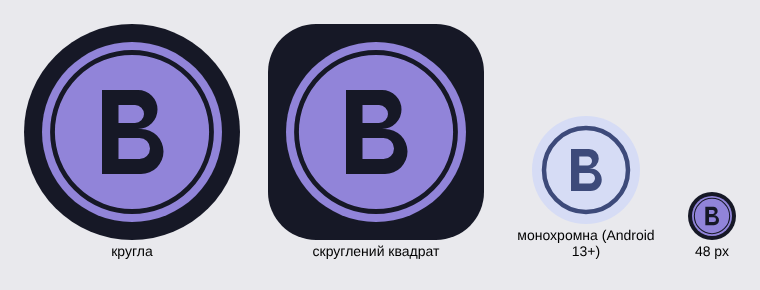
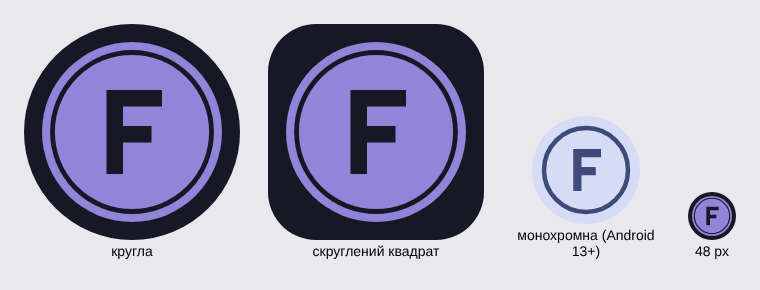
bella-app 1.7.1: іконка з літерою «F» замість «B»
Claude-Session: https://claude.ai/code/session_01QTWmcR4aZ8LZD3mgFNtc3M

diff --git a/bella-app/README.md b/bella-app/README.md
@@ -28,7 +28,7 @@ ETF у валюті фонду: ціна купівлі й поточна вво
 
 Калькулятори (як у вебверсії): в «Інвестиціях» — «Калькулятор складного відсотка» з інфляцією, комісіями, податком при виході (0% ОВДП / 23%), індексацією внеску; результат «на руки» і «у сьогоднішніх грошах». У «Пасивному доході» — «Прогноз фінансової незалежності»: капітал, внесок, дохідність, інфляція, ставка знімання, бажаний дохід → коли досягнете, потрібний капітал, ціль у грошах на дату. Ручні значення зберігаються, решта підставляється з портфеля й витрат (`Projection.kt`, `CalcUi.kt`, тести `ProjectionTest`).
 
-ETF у валюті фонду показуються в ній же: вартість, прибуток і ціни — у вибраній під час заповнення валюті (€, $, zł), поруч еквівалент у валюті перегляду; у формі видно «Вартість: X € ≈ Y ₴». Іконка застосунку — адаптивна векторна (`res/mipmap-anydpi-v26`, `res/drawable/ic_launcher_*`): фіолетова монета з літерою «B» на темному тлі, з монохромним шаром для Android 13+.
+ETF у валюті фонду показуються в ній же: вартість, прибуток і ціни — у вибраній під час заповнення валюті (€, $, zł), поруч еквівалент у валюті перегляду; у формі видно «Вартість: X € ≈ Y ₴». Іконка застосунку — адаптивна векторна (`res/mipmap-anydpi-v26`, `res/drawable/ic_launcher_*`): фіолетова монета з літерою «F» на темному тлі, з монохромним шаром для Android 13+.
 
 ## Збірка
 Потрібні JDK 17 і Android SDK 34 (шлях до SDK: `ANDROID_HOME` або `sdk.dir` у `local.properties`). Відкрийте папку в Android Studio або з терміналу:
